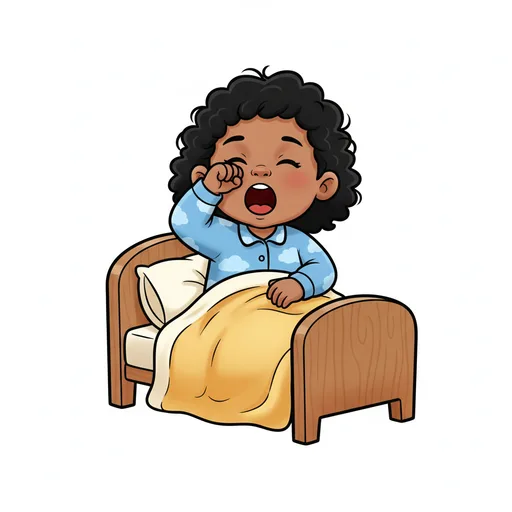
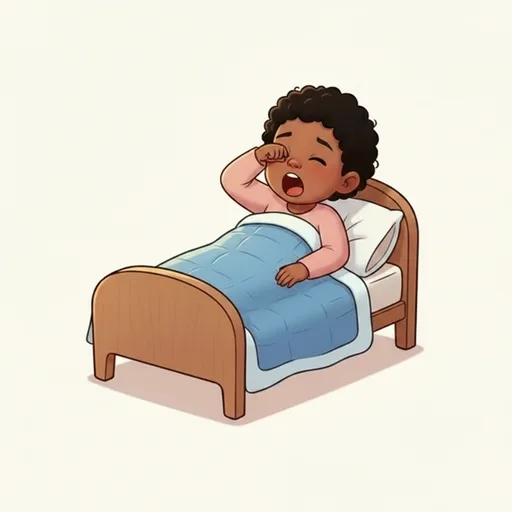
Fix: lock clothing consistency on dance/hug/wake (frame2 conditioned on frame1)
A keen parent would notice clothing colour/design drift between a verb's two
frames. Regenerated frame 2 of dancing, hugging and waking by conditioning on
frame 1 (image-to-image) so the child(ren) AND clothing are identical — only the
pose changes. jump/run/clap/eat/brush/wash/wave/dress were already consistent.
This frame2-on-frame1 method is now the standard for Batch 2.

npm run check + verify-actions green.

diff --git a/TINYVVOICE_PROJECT_CONTEXT.md b/TINYVVOICE_PROJECT_CONTEXT.md
@@ -5,16 +5,16 @@ A git pre-commit hook auto-refreshes the metadata block below; the human-maintai
 sections (Build Status, Next Steps) are updated by hand each push.
 
 <!-- AUTO:START -->
-> _Auto-updated on commit — last refreshed **2026-08-28 17:15 UTC** on branch `main`._
+> _Auto-updated on commit — last refreshed **2026-08-28 18:59 UTC** on branch `main`._
 
 **Recent commits:**
 
+- `a0a5244 Feat: animation diversity Batch 1b — 6 verbs re-cast; Batch 1 complete`
 - `bc3f4e1 Feat: animation diversity Batch 1a — 5 verbs re-cast (fresh method)`
 - `a8f74d8 Feat: routine images — dressing/bath/park (NEW WORK Phase 4)`
 - `7be82dd Feat: routine wording — bedtime + bath (NEW WORK Phase 3)`
 - `10af227 Feat: listening-game language — plural prompts + eating image (NEW WORK Phase 2)`
 - `018b40f Feat: Word Board restructure (NEW WORK Phase 1)`
-- `3ac658f Docs: defer #4 (sign-in OTP) until pilot feedback (owner decision)`
 <!-- AUTO:END -->
 
 ---
